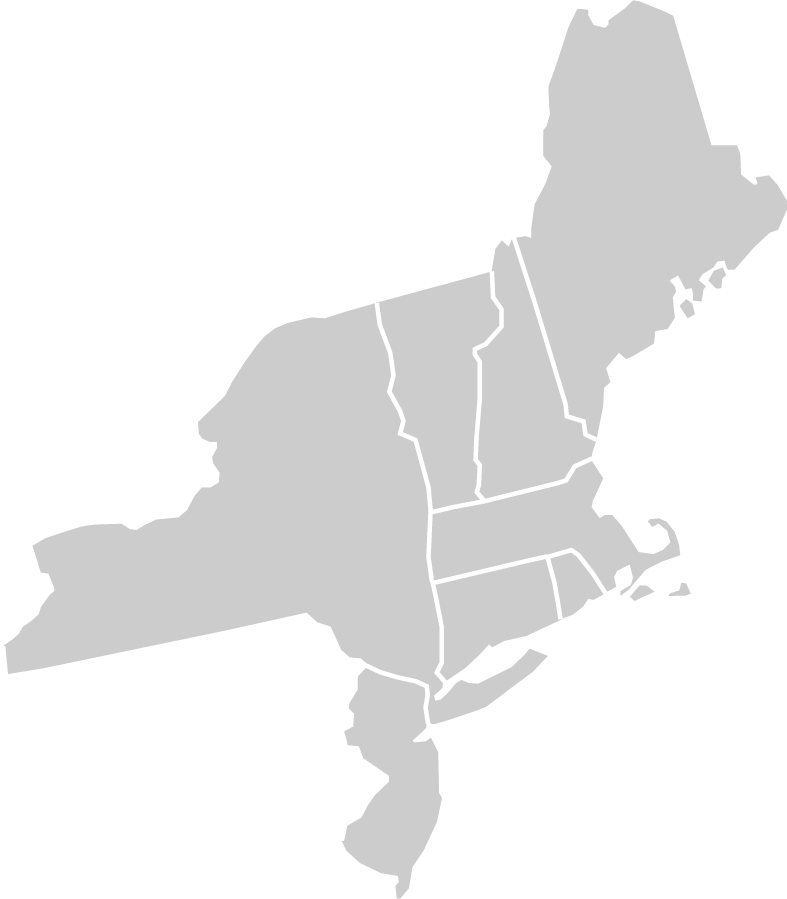
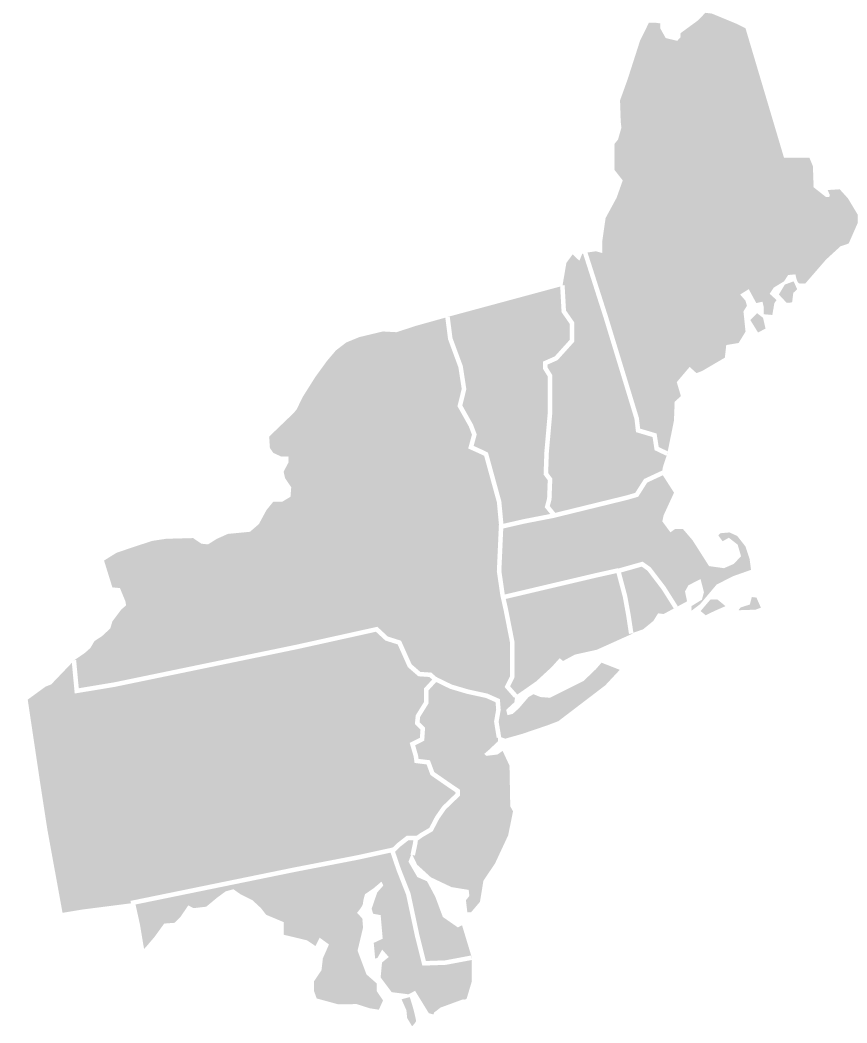
Add files via upload
Added MD, DE, and PA to the map.

diff --git a/index.html b/index.html
@@ -6,17 +6,19 @@
     <meta name="description" content="Cannabeta is leading the way in cannabis real estate in New York, New Jersey, and surrounding state in the Northeast of the US. Check out their map for info.">
 </head>
 <body>
-    <script src="overlibmws.js" type="text/javascript"></script><!-- overLIBMWS necessary for this to work  -->
+    <script src="overlibmws.js" type="text/javascript"></script><!-- Copyright Erik Bosrup overLIBMWS. Necessary for this to work  -->
     <img src="Cannabetas-Northeast-Map-USA.png" name="" id="" usemap="#newEngland-imageMap"/><!--width="1065" height="940"-->
     <map name="newEngland-imageMap"><!-- onmouseover creates popup tooltip boxes with info -->
-        <area target="" alt="New York" title="" href="" coords="8,671,3,646,54,591,35,543,184,518,216,483,218,443,199,423,294,321,374,305,426,500,434,603,438,646,438,682,440,696,470,683,528,649,542,655,491,703,434,721,424,681,344,648,309,611" shape="poly" onmouseout="nd()" onmouseover="return overlib('This is where New York cannabis real estate info. goes.', TEXTSIZE, 2, AUTOSTATUSCAP, CAPTION, 'New York', WRAPMAX)">
-        <area target="" alt="New Jersey" title="" href="" coords="361,670,418,686,426,728,412,739,432,738,439,795,417,861,399,896,401,872,343,847,392,779,347,740" shape="poly" onmouseout="nd()" onmouseover="return overlib('This is where New Jersey cannabis real estate info. goes.', TEXTSIZE, 2, AUTOSTATUSCAP, CAPTION, 'New Jersey', WRAPMAX)">
-        <area target="" alt="Connecticut" title="" href="" coords="441,674,437,586,545,560,557,620,447,675" shape="poly" onmouseout="nd()" onmouseover="return overlib('This is where Connecticut cannabis real estate info. goes.', TEXTSIZE, 2, AUTOSTATUSCAP, CAPTION, 'Connecticut', WRAPMAX)">
-        <area target="" alt="Rhode Island" title="" href="" coords="550,561,563,617,601,596,571,551" shape="poly" onmouseout="nd()" onmouseover="return overlib('This is where Rhode Island cannabis real estate info. goes.', TEXTSIZE, 2, AUTOSTATUSCAP, CAPTION, 'Rhode Island', WRAPMAX)">
-        <area target="" alt="Massachusetts" title="" href="" coords="434,514,436,577,572,543,607,587,615,581,616,570,628,562,632,569,625,586,631,595,651,589,689,593,684,583,636,582,645,568,678,553,674,533,658,517,651,519,668,544,656,554,609,515,589,506,601,479,589,463,568,480" shape="poly" onmouseout="nd()" onmouseover="return overlib('This is where Massachusetts cannabis real estate info. goes.', TEXTSIZE, 2, AUTOSTATUSCAP, CAPTION, 'Massachusetts', WRAPMAX)">
-        <area target="" alt="New Hampshire" title="" href="" coords="483,496,562,476,573,461,589,452,592,440,565,414,513,245,499,244,498,289,506,316,479,348" shape="poly" onmouseout="nd()" onmouseover="return overlib('This is where New Hampshire cannabis real estate info. goes.', TEXTSIZE, 2, AUTOSTATUSCAP, CAPTION, 'New Hampshire', WRAPMAX)">
-        <area target="" alt="Vermont" title="" href="" coords="378,304,488,273,498,311,472,348,475,496,432,508" shape="poly" onmouseout="nd()" onmouseover="return overlib('This is where Vermont cannabis real estate info. goes.', TEXTSIZE, 2, AUTOSTATUSCAP, CAPTION, 'Vermont', WRAPMAX)">
-        <area target="" alt="Maine" title="" href="" coords="596,444,517,241,530,235,552,167,543,130,553,111,548,83,578,10,605,24,637,1,671,11,712,142,733,144,740,169,755,183,769,176,780,198,784,209,776,223,733,268,693,313,640,350,609,362,609,387" shape="poly" onmouseout="nd()" onmouseover="return overlib('This is where Maine cannabis real estate info. goes.', TEXTSIZE, 2, AUTOSTATUSCAP, CAPTION, 'Maine', WRAPMAX)">
+        <area target="" alt="Maryland" title="" href="" coords="136,908,144,950,209,905,235,890,283,923,314,945,323,959,315,994,339,1002,381,1007,361,919,379,881,373,913,375,945,380,966,389,990,411,1028,415,992,430,1013,466,1000,469,961,424,964,391,852" shape="poly" onmouseout="nd()" onmouseover="return overlib('This is where Maryland cannabis real estate info. goes.', TEXTSIZE, 2, AUTOSTATUSCAP, CAPTION, 'Maryland', WRAPMAX)">
+        <area target="" alt="Delaware" title="" href="" coords="394,850,426,959,469,953,460,928,425,880,406,860,413,840" shape="poly" onmouseout="nd()" onmouseover="return overlib('This is where Delaware cannabis real estate info. goes.', TEXTSIZE, 2, AUTOSTATUSCAP, CAPTION, 'Delaware', WRAPMAX)">
+        <area target="" alt="Pennsylvania" title="" href="" coords="70,665,26,701,64,913,428,831,454,794,413,760,413,727,428,679,375,631,73,695" shape="poly" onmouseout="nd()" onmouseover="return overlib('This is where Pennsylvania cannabis real estate info. goes.', TEXTSIZE, 2, AUTOSTATUSCAP, CAPTION, 'Pennsylvania', WRAPMAX)">
+        <area target="" alt="New York" title="" href="" coords="76,662,79,688,377,628,428,674,500,699,501,738,559,723,617,672,601,666,531,696,514,713,513,703,510,677,482,457,467,451,444,318,335,354,275,434,272,453,286,470,294,499,277,503,258,529,229,540,202,545,157,541,107,563,114,586,130,603" shape="poly" onmouseout="nd()" onmouseover="return overlib('This is where New York cannabis real estate info. goes.', TEXTSIZE, 2, AUTOSTATUSCAP, CAPTION, 'New York', WRAPMAX)">
+        <area target="" alt="New Jersey" title="" href="" coords="436,683,495,701,496,741,485,754,508,755,509,811,499,858,483,880,476,909,468,912,463,887,415,861,420,841,461,794,435,773,419,759,417,746,420,720" shape="poly" onmouseout="nd()" onmouseover="return overlib('This is where New Jersey cannabis real estate info. goes.', TEXTSIZE, 2, AUTOSTATUSCAP, CAPTION, 'New Jersey', WRAPMAX)">
+        <area target="" alt="Connecticut" title="" href="" coords="505,598,512,685,516,694,560,660,629,634,613,572" shape="poly" onmouseout="nd()" onmouseover="return overlib('This is where Connecticut cannabis real estate info. goes.', TEXTSIZE, 2, AUTOSTATUSCAP, CAPTION, 'Connecticut', WRAPMAX)">
+        <area target="" alt="Rhode Island" title="" href="" coords="619,573,633,631,673,610,640,565" shape="poly" onmouseout="nd()" onmouseover="return overlib('This is where Rhode Island cannabis real estate info. goes.', TEXTSIZE, 2, AUTOSTATUSCAP, CAPTION, 'Rhode Island', WRAPMAX)">
+        <area target="" alt="Massachusetts" title="" href="" coords="505,528,500,563,504,591,641,559,677,603,707,613,758,607,754,595,710,598,713,584,749,570,747,554,740,538,722,531,725,539,739,547,738,561,718,567,698,550,685,529,669,528,663,519,673,493,662,474,648,479,641,496" shape="poly" onmouseout="nd()" onmouseover="return overlib('This is where Massachusetts cannabis real estate info. goes.', TEXTSIZE, 2, AUTOSTATUSCAP, CAPTION, 'Massachusetts', WRAPMAX)">
+        <area target="" alt="New Hampshire" title="" href="" coords="571,256,584,251,635,432,650,436,653,452,664,458,661,470,645,476,633,492,555,511,550,505,547,469,557,379,548,367,560,360,575,340,575,318,565,302" shape="poly" onmouseout="nd()" onmouseover="return overlib('This is where New Hampshire cannabis real estate info. goes.', TEXTSIZE, 2, AUTOSTATUSCAP, CAPTION, 'New Hampshire', WRAPMAX)">
+        <area target="" alt="Vermont" title="" href="" coords="450,317,558,288,560,312,570,328,569,341,554,359,543,362,548,379,547,514,503,523,488,452,474,445,477,430,463,407" shape="poly" onmouseout="nd()" onmouseover="return overlib('This is where Vermont cannabis real estate info. goes.', TEXTSIZE, 2, AUTOSTATUSCAP, CAPTION, 'Vermont', WRAPMAX)">
+        <area target="" alt="Maine" title="" href="" coords="589,252,642,427,657,433,662,445,669,450,682,395,679,379,694,363,698,371,748,332,769,326,749,303,750,286,762,302,767,312,774,313,776,298,773,287,782,291,791,301,800,286,853,242,862,214,839,188,818,181,811,153,786,153,748,26,709,12,688,27,680,39,668,34,660,21,652,22,622,98,626,122,618,141,618,174,623,186" shape="poly" onmouseout="nd()" onmouseover="return overlib('This is where Maine cannabis real estate info. goes.', TEXTSIZE, 2, AUTOSTATUSCAP, CAPTION, 'Maine', WRAPMAX)">
     </map> 
 </body>
-
